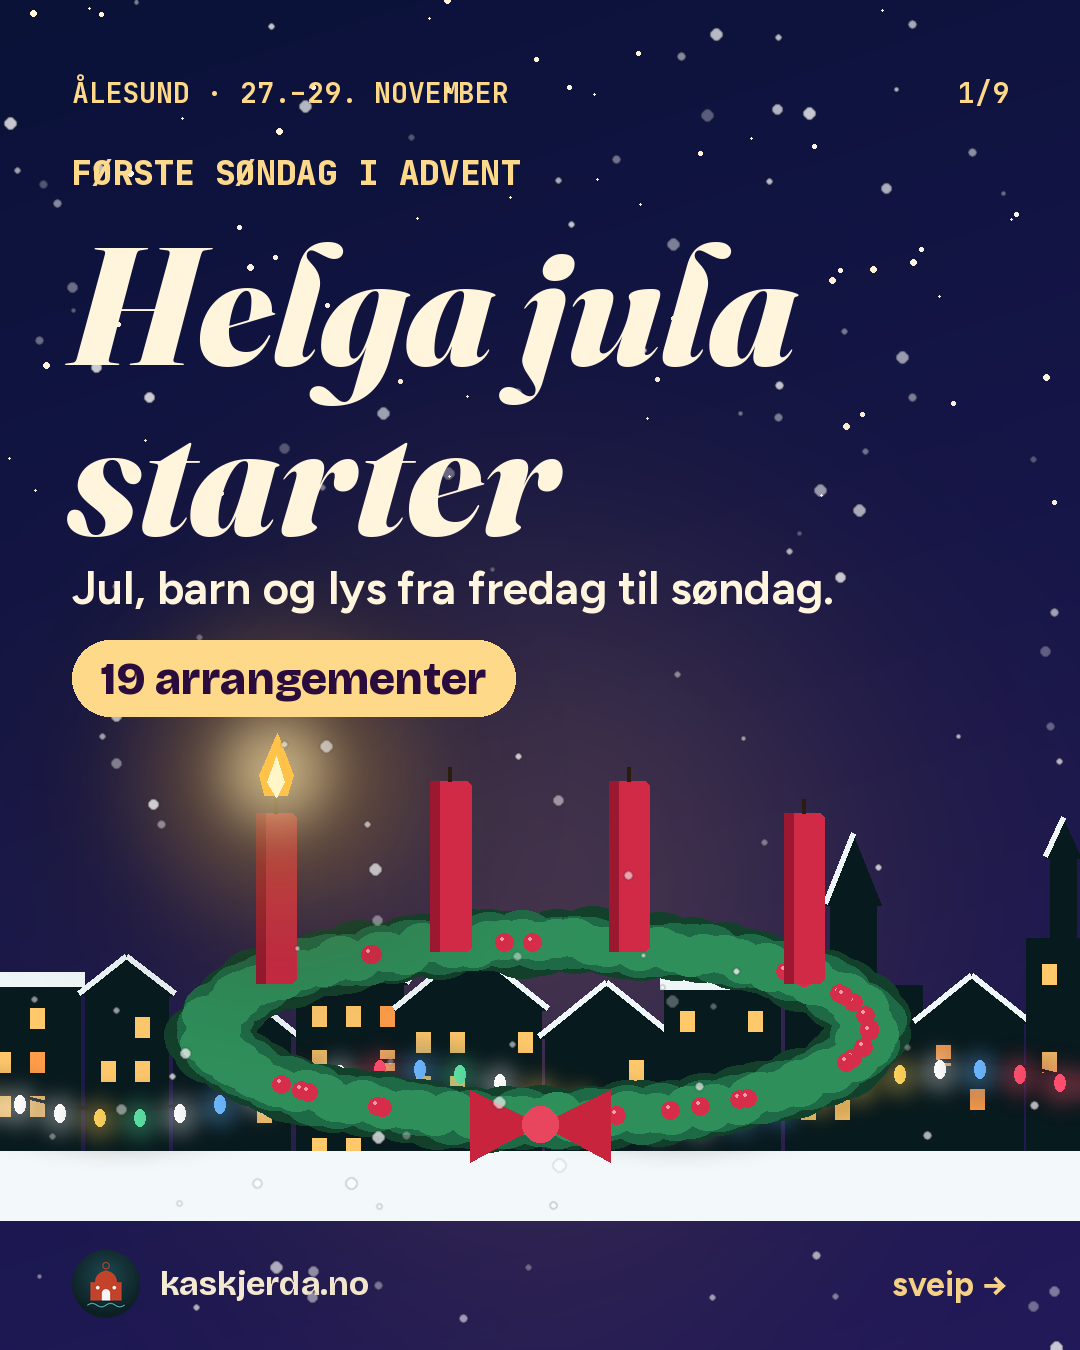
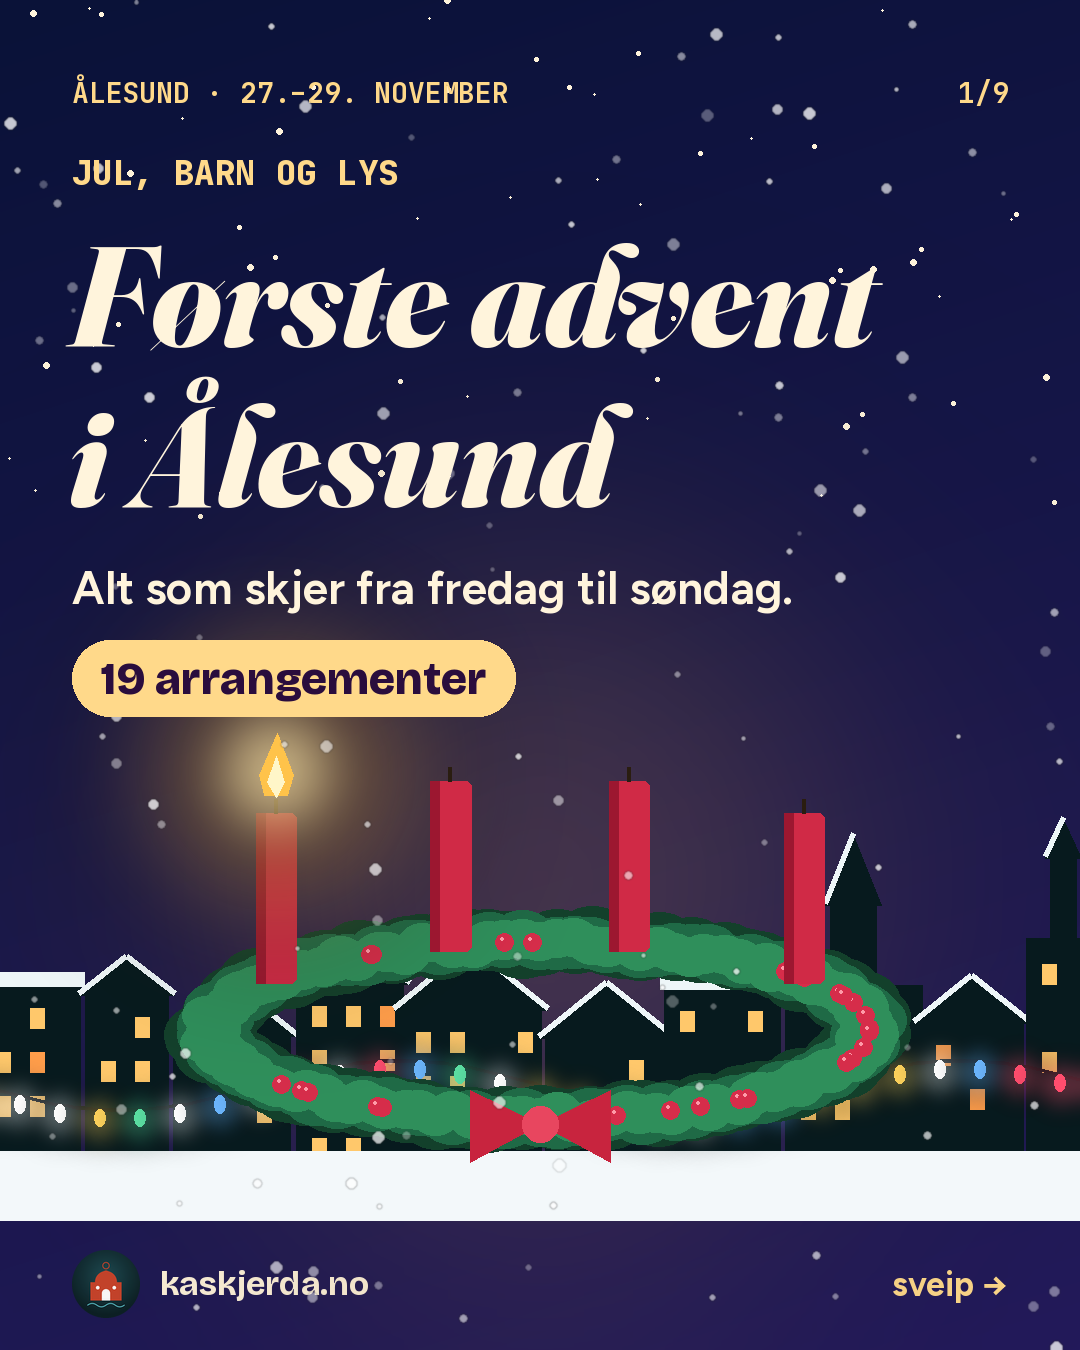
Adventshelg: ny tittel «Første advent i Ålesund» (bilder og tekst)
Claude-Session: https://claude.ai/code/session_01Kvjci9XiKxd8jTzmZvudex

Changed region(s): [[0.0611, 0.0933, 0.825, 0.4667]]

diff --git a/scripts/adventshelg.py b/scripts/adventshelg.py
@@ -317,10 +317,10 @@ def cover(folder):
     wreath(img, W // 2, 1030, 330, 88, lit=1, phase=0.6, candle_h=170)
     img.alpha_composite(snow_layer(W, H, 5, 120))
     dr = Dr(img)
-    dr.text((PAD, 150), "FØRSTE SØNDAG I ADVENT", font=M(34, 800), fill=GOLD)
-    for i, t in enumerate(("Helga jula", "starter")):
-        dr.text((PAD - 4, 200 + i * 170), t, font=FR(168, 800, True), fill=CREAM)
-    dr.text((PAD, 560), "Jul, barn og lys fra fredag til søndag.", font=F(46, 650), fill=CREAM)
+    dr.text((PAD, 150), "JUL, BARN OG LYS", font=M(34, 800), fill=GOLD)
+    for i, t in enumerate(("Første advent", "i Ålesund")):
+        dr.text((PAD - 4, 210 + i * 160), t, font=FR(140, 800, True), fill=CREAM)
+    dr.text((PAD, 560), "Alt som skjer fra fredag til søndag.", font=F(46, 650), fill=CREAM)
     t = f"{antall()} arrangementer"
     f = B(46, 800)
     w = dr.textlength(t, font=f)
@@ -679,11 +679,11 @@ def reel_frames(folder, with_audio):
         add_snow(img, t)
         dr = Dr(img)
         p1, p2, p3 = (ease(t / 0.5), back((t - 0.15) / 0.55), back((t - 0.4) / 0.55))
-        dr.text((W // 2, 330), "FØRSTE SØNDAG I ADVENT", font=M(36, 800), fill=(255, 217, 138, int(255 * p1)), anchor="ma")
-        for i, tx in enumerate(("Helga jula", "starter")):
+        dr.text((W // 2, 330), "27.–29. NOVEMBER", font=M(36, 800), fill=(255, 217, 138, int(255 * p1)), anchor="ma")
+        for i, tx in enumerate(("Første advent", "i Ålesund")):
             pp = (p2, p3)[i]
-            dr.text((W // 2, 420 + i * 190 + (1 - pp) * 80), tx, font=FR(190, 800, True), fill=(255, 244, 220, int(255 * min(1, pp))), anchor="ma")
-        dr.text((W // 2, 830), "Jul, barn og lys i Ålesund", font=F(48, 650), fill=(255, 244, 220, int(255 * ease((t - 0.7) / 0.4))), anchor="ma")
+            dr.text((W // 2, 420 + i * 170 + (1 - pp) * 80), tx, font=FR(150, 800, True), fill=(255, 244, 220, int(255 * min(1, pp))), anchor="ma")
+        dr.text((W // 2, 830), "Jul, barn og lys fra fredag til søndag", font=F(44, 650), fill=(255, 244, 220, int(255 * ease((t - 0.7) / 0.4))), anchor="ma")
         return img
 
     def scene_frame(i, t):

diff --git a/docs/adventshelg/innlegg.md b/docs/adventshelg/innlegg.md
@@ -49,7 +49,7 @@ Legg til **Ålesund** som sted.
 Vurder å invitere @parken_kulturhus som **medforfatter** (Collab): innlegget vises da på begge profilene og når begge følgerskarene.
 
 ### Alternativtekst (Avanserte innstillinger → Skriv alt-tekst)
-1. Adventskrans med ett tent lys over Ålesund-silhuett. Tekst: Helga jula starter, første søndag i advent, 19 arrangementer.
+1. Adventskrans med ett tent lys over Ålesund-silhuett. Tekst: Første advent i Ålesund, jul, barn og lys, 19 arrangementer.
 2. Tidslinje for en familielørdag: 11:00 julemarked på Steinerskolen, 13:00 Putti Plutti Pott, 17:00 Lysparken tennes.
 3. Tidslinje for en familiesøndag: 10:30 Julenissens verksted på kino, 13:00 pepperkakeverksted, 17:00 adventskonsert med barnekor.
 4. Lys og marked: Lysparken tennes lørdag 17:00, Designernes julemarked og julemarked på Steinerskolen.
@@ -62,7 +62,7 @@ Vurder å invitere @parken_kulturhus som **medforfatter** (Collab): innlegget vi
 ## Reel: bildetekst
 
 ```
-Helga jula starter 🕯 Lysparken, nissebesøk, pepperkaker, barneshow og adventskonsert. Alt som skjer i Ålesund 27.–29. nov står på kaskjerda.no (lenke i bio). Send til noen du vil gå med 🎄
+Første advent i Ålesund 🕯 Lysparken, nissebesøk, pepperkaker, barneshow og adventskonsert. Alt som skjer i Ålesund 27.–29. nov står på kaskjerda.no (lenke i bio). Send til noen du vil gå med 🎄
 
 #ålesund #førsteadvent #sunnmøre
 ```
